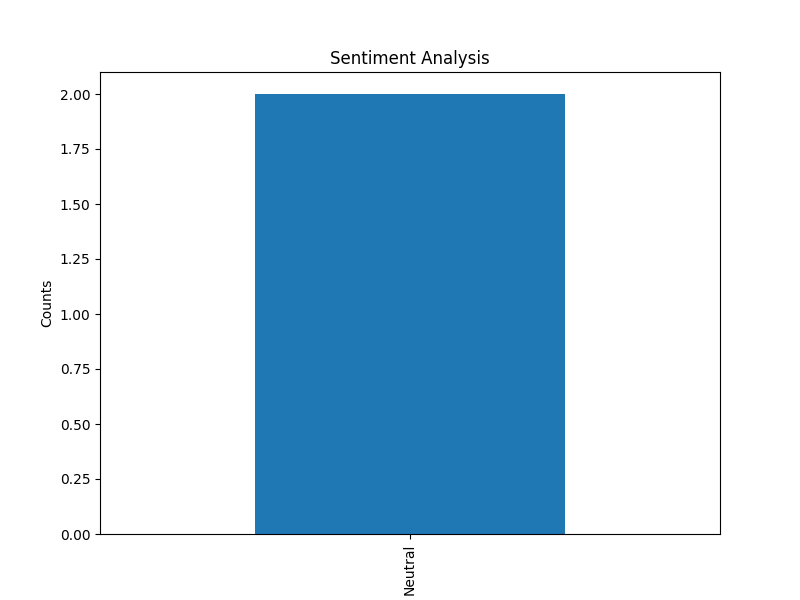
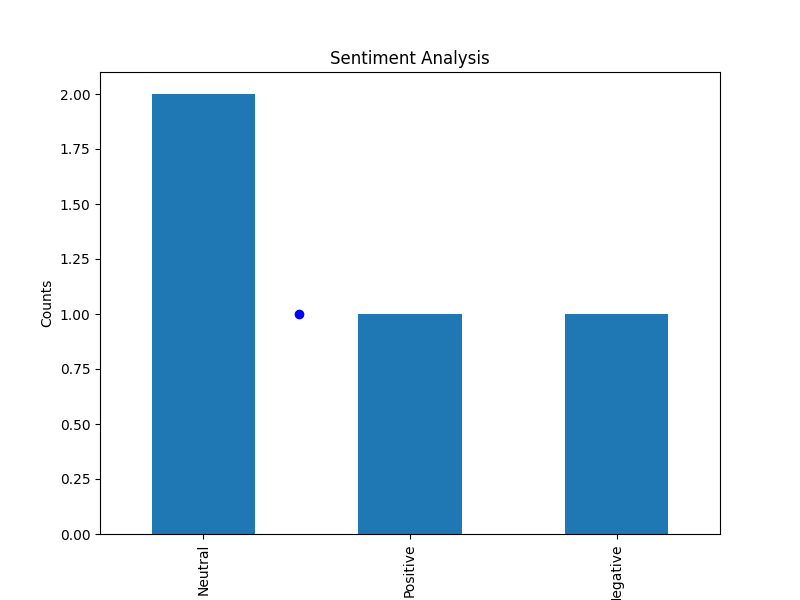
Added stock trend declaration

diff --git a/companyDashboard/templates/companyDashboard/dashboard.html b/companyDashboard/templates/companyDashboard/dashboard.html
@@ -26,7 +26,7 @@
                 </ul>
             </div>
         </nav>
-    <
+
 <h1>{{ ticker }}</h1>
 {% include 'companyDashboard/companyChart.html' with ticker=ticker %}
 <div class="prediction">
@@ -104,6 +104,13 @@
         </div>
     </div>
 </section>
+<section class="declaration">
+    <div style="text-align: center;">
+        <h3 style="background-color: blueviolet;"><strong>Checkout What Model Says...</strong></h3>
+        <strong>{{ declaration }}</strong>
+    </div>
+</section>
+
         
 {% comment %}
 {% include url %}

diff --git a/companyDashboard/views.py b/companyDashboard/views.py
@@ -8,6 +8,7 @@ import datetime
 from newsapi import NewsApiClient
 import datetime
 import pandas as pd
+import numpy as np
 import re
 from textblob import TextBlob
 from matplotlib import pyplot as plt
@@ -28,7 +29,7 @@ def dashboard(request):
                 month = str(datetime.date.today()).split("-")[1]
                 url1 = 'companyDashboard/images/' + ticker.split(':')[1].lower() + '/performance/' + ticker.split(':')[1].upper() + month + '.png'
                 url2 = 'companyDashboard/images/' + ticker.split(':')[1].lower() + '/nxt30days/' + ticker.split(':')[1].upper() + month + '.png'
-                print(url1, url2)
+                # print(url1, url2)
                 getInfo = yfinance.Ticker(ticker.split(':')[1].upper())
                 prices = {
                     'open': getInfo.info['open'],
@@ -43,6 +44,17 @@ def dashboard(request):
                 # prediction = predictions[int(str(datetime.date.today()).split("-")[2]) - 1]
                 companyPrediction = predictions[ticker.split(':')[1].lower()]
                 prediction = companyPrediction[int(str(datetime.date.today()).split("-")[2]) - 1]
+                # print(posNegCnt)
+                lastDayPrice = yfinance.Ticker(ticker.split(':')[1].upper()).history(period="5d")["Close"].iloc[-1]
+                # print(lastDayPrice)
+                diff = "increase" if (prediction - lastDayPrice) > 0 else "decrease"
+                posCnt = "more" if posNegCnt["Positive"] > posNegCnt["Negative"] else "less"
+                if diff == "decrease" and posCnt == "less":
+                    declaration = f"As per the model, there is a {diff} in closing price and there are {posCnt} positive tweets, model says that there is a downward trend."
+                elif diff == "increase" and posCnt == "more":
+                    declaration = f"As per the model, there is an {diff} in closing price and there are {posCnt} positive tweets, model says that there is an upward trend."
+                else:
+                    declaration = f"As per the model, there is an {diff} in closing price but there are {posCnt} positive tweets, model says that the trend is stagnant."
                 context = {
                     'ticker': ticker,
                     'url1': url1,
@@ -52,11 +64,12 @@ def dashboard(request):
                     'prices':prices,
                     'tweetObj': tweetObj,
                     'newsObj': newsObj,
-                    'prediction': prediction
+                    'prediction': prediction,
+                    'declaration': declaration
                 }
                 return render(request, 'companyDashboard/dashboard.html', context)
         else:
-            print("Kya re")
+            # print("Kya re")
             pass
     else:
         messages.error(request, 'You are not authenticated')
@@ -93,17 +106,26 @@ def tweet(query):
     # auth.set_access_token(access_token, access_token_secret)
     # api = tw.API(auth)
 
-    # tweets = api.search_tweets(q = query, count = 2, lang='en')
+    # tweetsObj = api.search_tweets(q = query, count = 20, lang='en')
+    # tweets = [tweet._json for tweet in tweetsObj]
     tweets = [
         {'created_at': 'Oct. 3, 2021, 3:23 a.m.', 'text': 'RT @IamRenganathan: Life is short get your name in the hall of fame Google, Apple, Microsft, Netflix, Amazon, and Facebook.'},
-        {'created_at': 'Oct. 2, 2021, 7:43 p.m.', 'text': '@TMessi_1 @Porkchop_EXP @Cernovich So microsft flight sim is for kids? tell that to the pilots that use it to train.'}
+        {'created_at': 'Oct. 2, 2021, 7:43 p.m.', 'text': '@TMessi_1 @Porkchop_EXP @Cernovich So microsft flight sim is for kids? tell that to the pilots that use it to train.'},
+        {'created_at': 'Oct. 2, 2021, 7:43 p.m.', 'text': '@TMessi_1 @Porkchop_EXP @Cernovich Wow! Im so happy'},
+        {'created_at': 'Oct. 2, 2021, 7:43 p.m.', 'text': '@TMessi_1 @Porkchop_EXP @Cernovich Damn! I just hate you!!'}
     ]
-    df = pd.DataFrame([tweet['text'] for tweet in tweets], columns=["Tweets"])
+    df = pd.DataFrame([t['text'] for t in tweets], columns=["Tweets"])
     df['Tweets'] = df['Tweets'].apply(cleanTxt)
     df["Subjectivity"] = df["Tweets"].apply(getSubjectivity)
     df["Polarity"] = df["Tweets"].apply(getPolarity)
     df["Analysis"] = df["Polarity"].apply(getAnalysis)
-    print(df)
+    global posNegCnt
+    posNegCnt = df["Analysis"].value_counts()
+    if "Positive" not in posNegCnt:
+        posNegCnt["Positive"] = 0
+    if "Negative" not in posNegCnt:
+        posNegCnt["Negative"] = 0
+    print(posNegCnt)
     plt.figure(figsize=(8,6))
     for i in range(0, df.shape[0]):
         plt.scatter(df['Polarity'][i], df['Subjectivity'][i], color='Blue')
